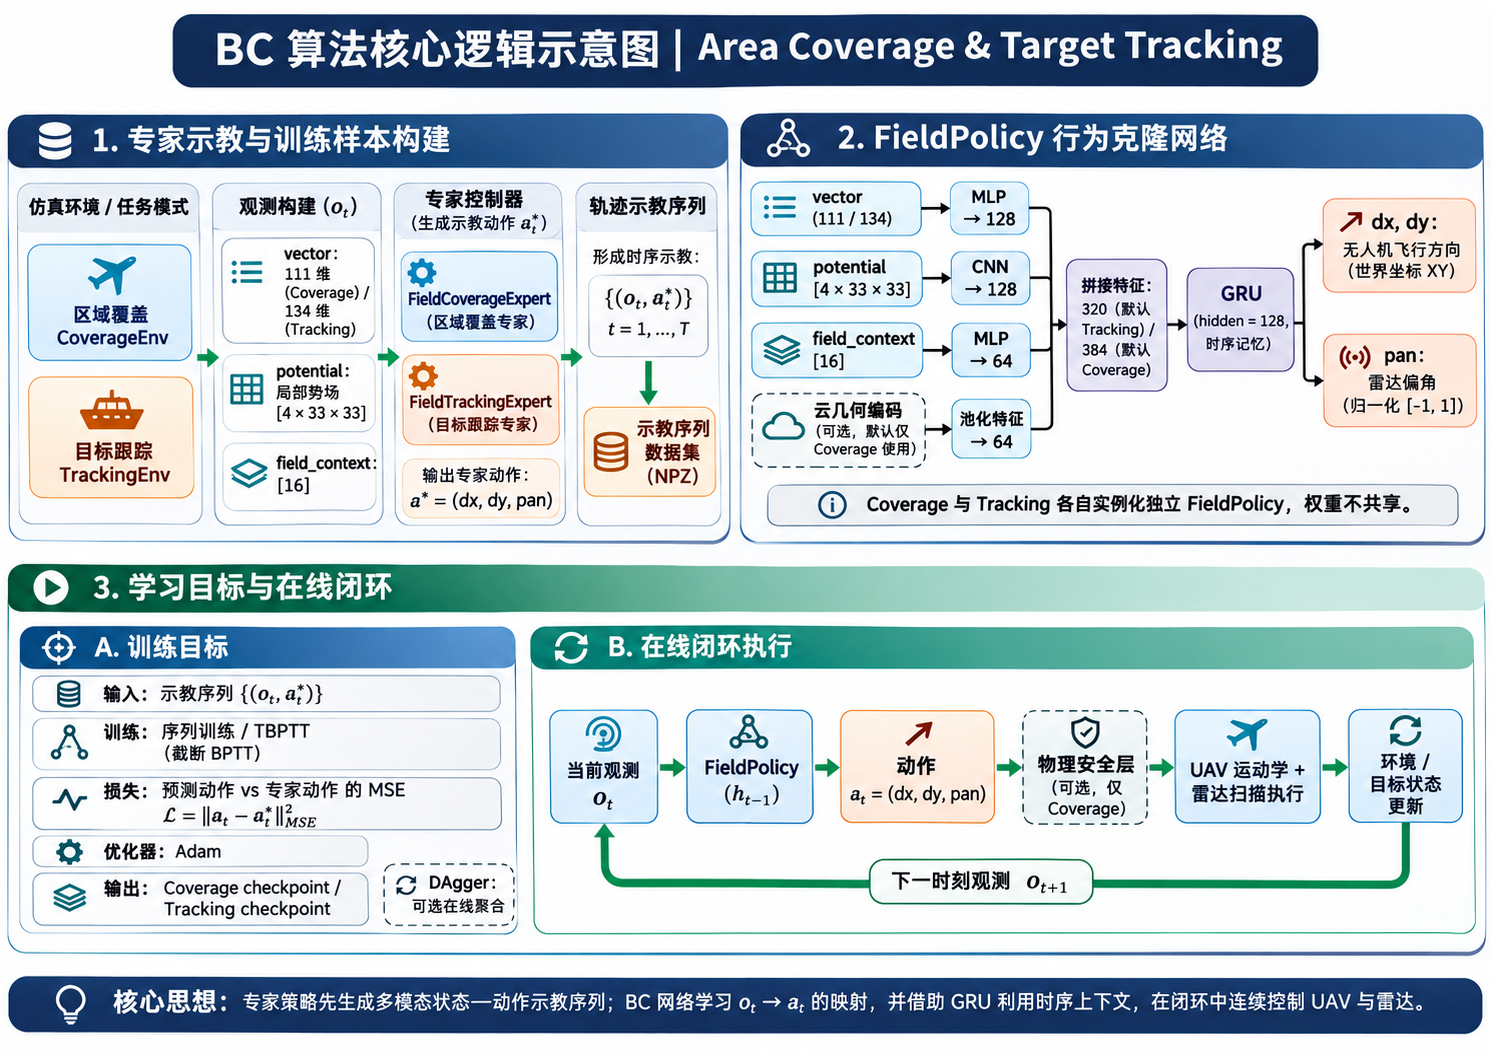
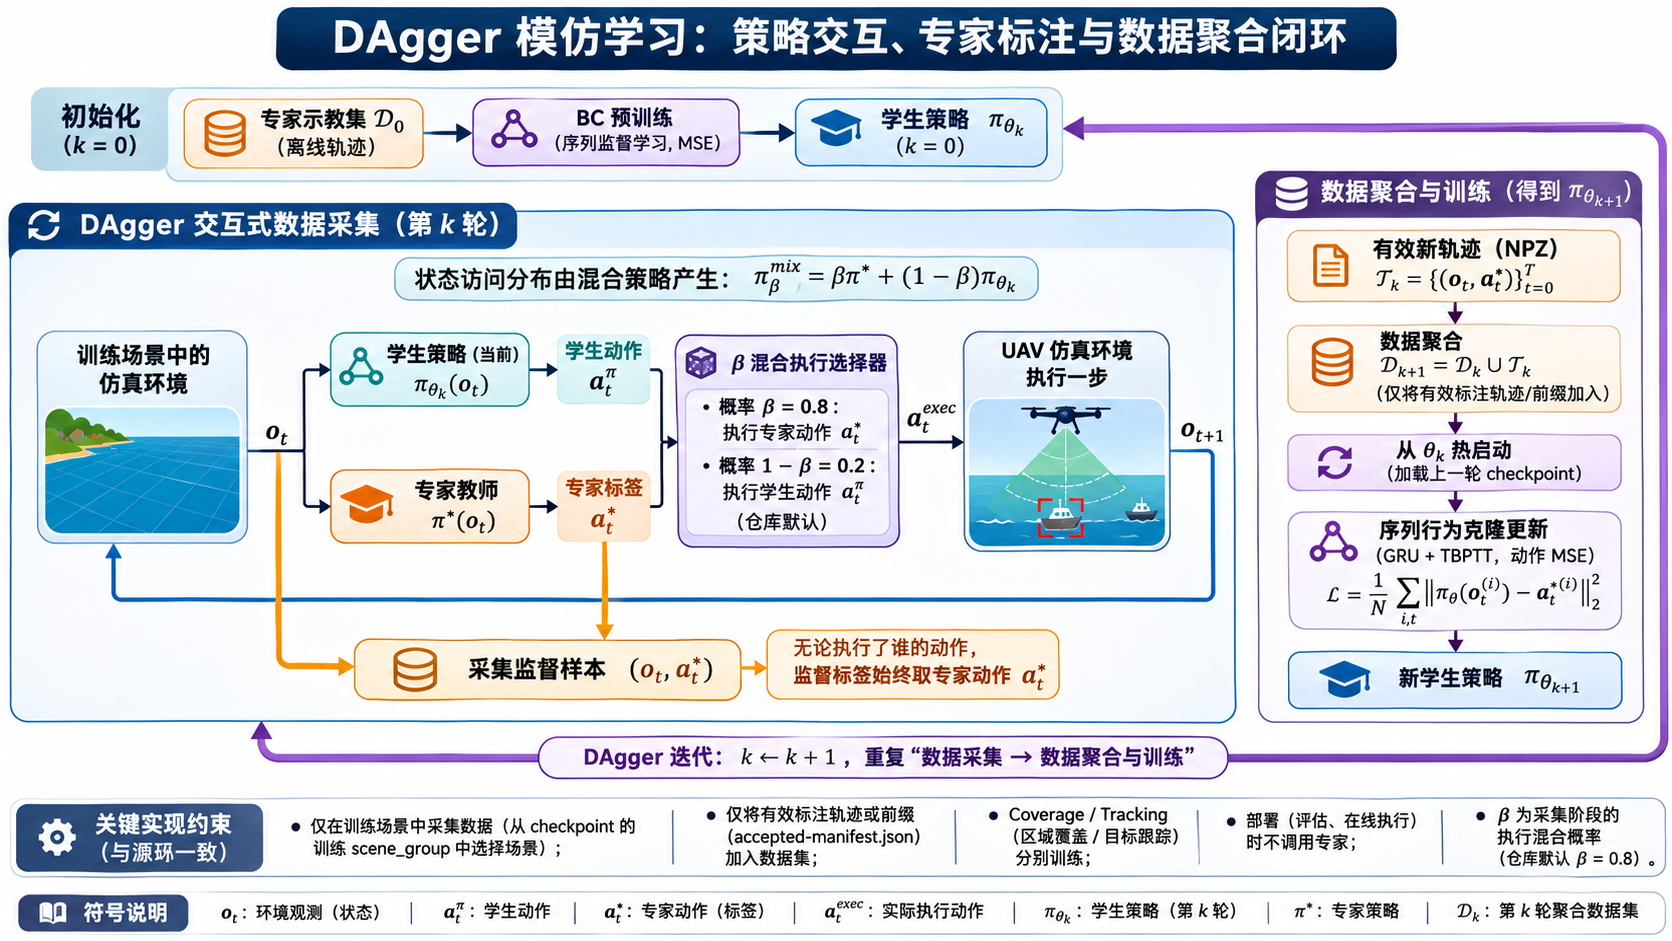
Update DAgger workflow diagram and README explanation

diff --git a/README.md b/README.md
@@ -17,9 +17,11 @@
 
 本项目采用带时序记忆的**行为克隆（Behavior Cloning，BC）**：先由启发式专家生成状态—动作示教序列，再用 CNN + MLP + GRU 学习控制策略，最后在真实运动学与雷达约束下闭环执行。区域覆盖和目标跟踪分别维护专家、数据集、策略参数及隐藏状态。
 
-![行为克隆算法工作逻辑：专家示教、FieldPolicy 网络、训练目标与在线闭环](assets/fig.png)
+在初始 BC 训练后，可选使用 **DAgger（Dataset Aggregation，数据集聚合）**：让学生策略参与训练场景交互，由专家为访问到的状态提供动作标签，再聚合有效示教数据并更新策略。图1展示这一迭代过程，网络结构和优化目标见后文。
 
-*图1：算法整体流程。图中的 MSE 表示动作平方误差；代码中 `Loss` 与按动作分量平均的 `Action_MSE` 的关系见下文。*
+![DAgger 模仿学习闭环：BC 预训练、专家与学生混合交互、专家标注、数据聚合与策略迭代](assets/fig.png)
+
+*图1：DAgger 交互采集与训练流程。采集阶段默认以0.8的概率执行专家动作、0.2的概率执行学生动作，监督标签始终取专家动作；有效新轨迹以 NPZ 保存并加入聚合数据集，再从上一轮策略参数继续训练。采集仅使用训练场景，评估与在线执行不调用专家。图中的 MSE 表示动作平方误差；代码中 `Loss` 与按动作分量平均的 `Action_MSE` 的关系见下文。*
 
 ### 任务目标与物理约束
 
